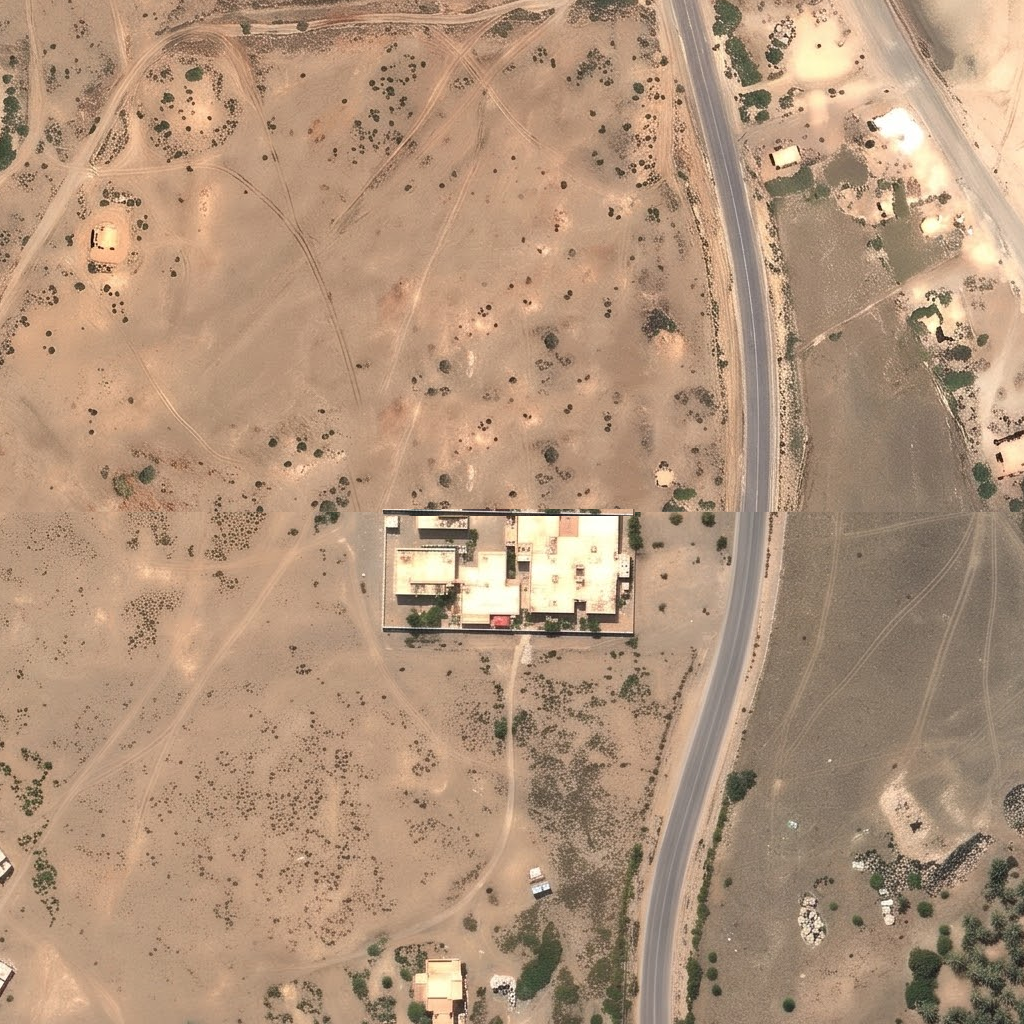
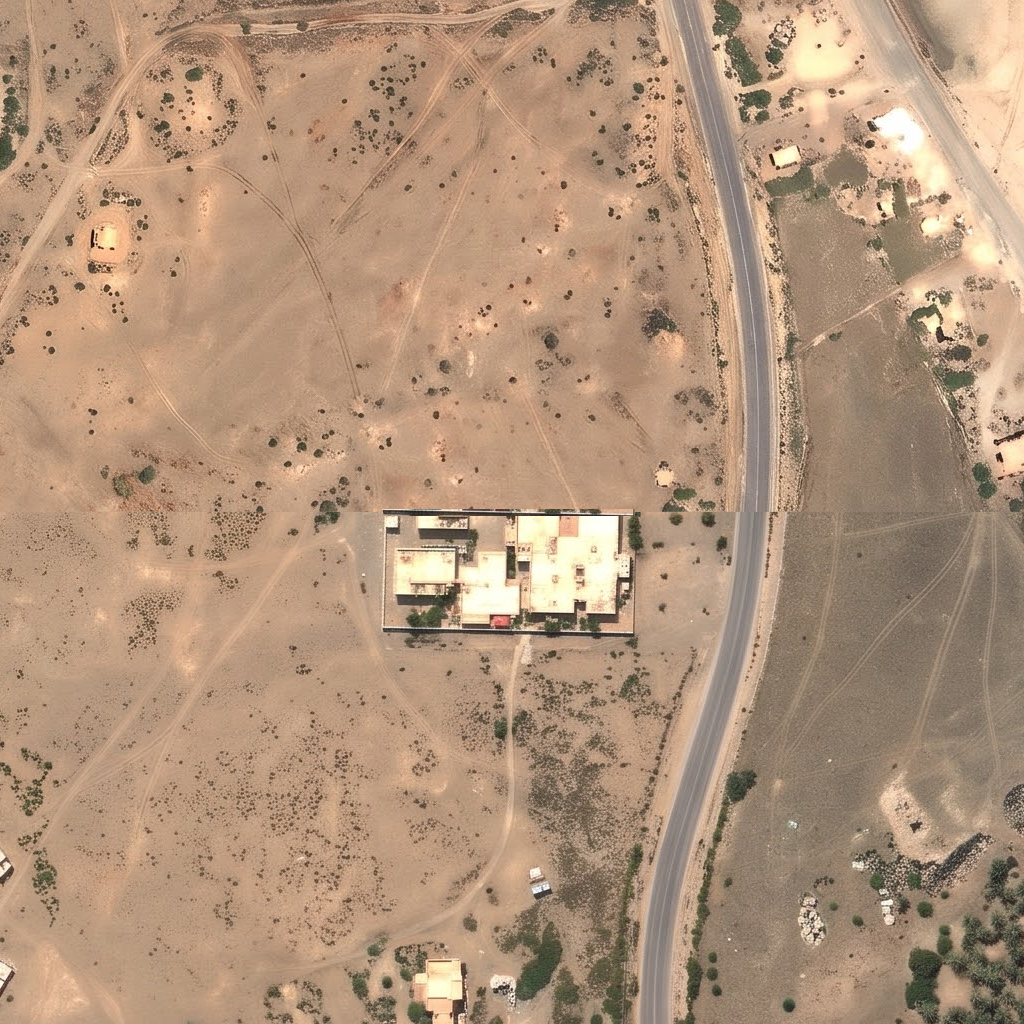
Silak port: the compound's fill taken from further north and mirrored (no shrub repeated above itself), per review
Claude-Session: https://claude.ai/code/session_01MLonhoi9ZqQWL8dbqA79rs

Changed region(s): [[0.3438, 0.375, 0.625, 0.5], [0.3438, 0.375, 0.4062, 0.4375], [0.5938, 0.375, 0.6562, 0.4375]]

diff --git a/assets/originals/velmora/ops2_silak/fix/make_fixed.py b/assets/originals/velmora/ops2_silak/fix/make_fixed.py
@@ -1,5 +1,5 @@
 """Silak's compound, cut by the join of pieces 2_0 and 2_1 (its top half drawn differently above the line): above the join
-the ground just north of it brought down over the cut half, and the south wall's line laid along the join as its north
+the ground from further north (mirrored) brought over the cut half, and the south wall's line laid along the join as its north
 wall. Run from the repo root; tools/make_ops.py silak pastes compound_fixed.png at (4218, 1536) of the mosaic."""
 import numpy as np
 from PIL import Image
@@ -7,15 +7,16 @@ from scipy import ndimage
 src = 'assets/originals/velmora/ops2_silak/fix/compound_src.png'
 C = np.asarray(Image.open(src).convert('RGB'), np.float32)
 out = C.copy()
-# 1. above the join: the cut half and its bright spill replaced by the ground just north of it (112 px up), feathered
-#    at the left, right and top, hard at the join where the compound's new north wall stands
-x0, x1, y0, y1, up = 352, 648, 398, 512, 114
+# 1. above the join: the cut half and its bright spill replaced by ground from further north (230 px up, about 165 m),
+#    mirrored left to right so no shrub repeats just above itself; feathered at the left, right and top, hard at the
+#    join where the compound's new north wall stands
+x0, x1, y0, y1, up = 352, 648, 398, 512, 230
 m = np.zeros(C.shape[:2], np.float32); m[y0:y1, x0:x1] = 1
 F = 16
 m = ndimage.uniform_filter(m, F)
 m[505:512, x0 + F:x1 - F] = 1                      # (full strength along the join itself)
 m[512:] = 0
-shifted = np.zeros_like(C); shifted[y0 - F:y1] = C[y0 - F - up:y1 - up]
+shifted = np.zeros_like(C); shifted[y0 - F:y1, x0 - F:x1 + F] = C[y0 - F - up:y1 - up, x0 - F:x1 + F][:, ::-1]
 out = out * (1 - m[..., None]) + shifted * m[..., None]
 # 2. the north wall: the south wall's own line (its top light edge and shadow) laid along the join
 wall = C[627:634, 382:635]

diff --git a/tools/silak_missions.py b/tools/silak_missions.py
@@ -5,7 +5,7 @@ the ZF-25's into data/maps/silak/missions_f15.json, the Sahm's into data/maps/si
 
 The area: an old airstrip north-west (its runway's south end and turning pad about 950, 2050; a walled compound on its
 apron about 310, 1910), the coast road from the north (its 'road', 4,226 m: down the west carriageway, round the
-roundabout at about 530 m, past a walled compound on its west side at 1,550 m (the track from its gate meets the road at about 1,620 m) (3,890-4,100, 1,730-1,850), into the town
+roundabout at about 530 m, past a walled compound on its west side at 1,550 m (3,890-4,100, 1,730-1,850; the convoy halts at 1,620 m, level with its gate), into the town
 from 2,350 m), a rock mole on the beach east of the road (its head about 4,870, 1,990, a fisherman's hut on it), the
 sea east of that, and the town south and south-east, civilian. No base here: every sortie starts on station.
 Places are map px (0.85 m each); the road's s is metres from its north end.
